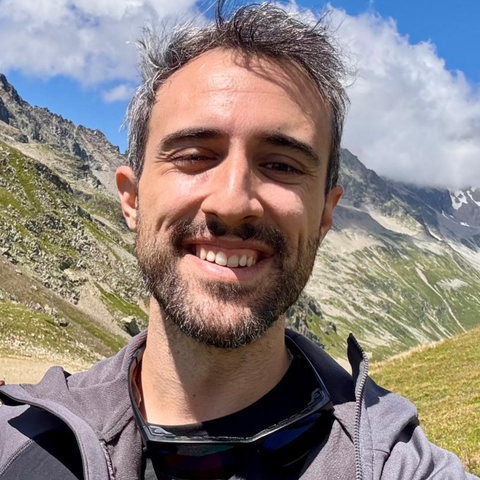
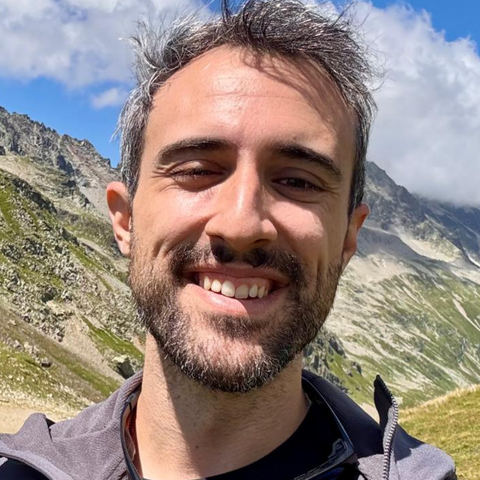
Update profile photo and add DOI links to publications from CVN

diff --git a/publications.html b/publications.html
@@ -53,6 +53,7 @@
     <li class="pub">
       <span class="pub-title">Personalized Pricing Decisions through Adversarial Risk Analysis</span>
       <span class="pub-meta">D. G. Rasines, R. Naveiro, D. Ríos Insua, S. Rodríguez Santana — International Transactions in Operational Research</span>
+      <span class="pub-links"><a href="https://doi.org/10.1111/itor.13545" target="_blank" rel="noopener">DOI</a></span>
     </li>
   </ol>
 
@@ -61,7 +62,7 @@
     <li class="pub">
       <span class="pub-title">Variational Linearized Laplace Approximation for Bayesian Deep Learning</span>
       <span class="pub-meta">L. A. Ortega Andrés, S. Rodríguez Santana, D. Hernández-Lobato — ICML</span>
-      <span class="pub-links"><a href="https://arxiv.org/abs/2302.12565" target="_blank" rel="noopener">arXiv</a></span>
+      <span class="pub-links"><a href="https://arxiv.org/abs/2302.12565" target="_blank" rel="noopener">arXiv</a><a href="https://doi.org/10.48550/arXiv.2302.12565" target="_blank" rel="noopener">DOI</a></span>
     </li>
     <li class="pub">
       <span class="pub-title">Fixed-Mean Gaussian Processes for Post-Hoc Bayesian Deep Learning</span>
@@ -75,6 +76,7 @@
     <li class="pub">
       <span class="pub-title">Deep Variational Implicit Processes</span>
       <span class="pub-meta">L. A. Ortega, S. Rodríguez Santana, D. Hernández-Lobato — International Conference on Learning Representations (ICLR)</span>
+      <span class="pub-links"><a href="https://doi.org/10.48550/arXiv.2206.06720" target="_blank" rel="noopener">DOI</a></span>
     </li>
   </ol>
 
@@ -83,10 +85,12 @@
     <li class="pub">
       <span class="pub-title">Function-Space Inference with Sparse Implicit Processes</span>
       <span class="pub-meta">S. Rodríguez Santana, B. Zaldivar, D. Hernández-Lobato — ICML</span>
+      <span class="pub-links"><a href="https://doi.org/10.48550/arXiv.2110.07618" target="_blank" rel="noopener">DOI</a></span>
     </li>
     <li class="pub">
       <span class="pub-title">Correcting Model Bias with Sparse Implicit Processes</span>
       <span class="pub-meta">S. Rodríguez Santana, L. A. Ortega, D. Hernández-Lobato, B. Zaldívar — ICML Workshop "Beyond Bayes"</span>
+      <span class="pub-links"><a href="https://doi.org/10.48550/arXiv.2207.10673" target="_blank" rel="noopener">DOI</a></span>
     </li>
   </ol>
 
@@ -95,6 +99,7 @@
     <li class="pub">
       <span class="pub-title">Adversarial α-Divergence Minimization for Bayesian Approximate Inference</span>
       <span class="pub-meta">S. Rodríguez Santana, D. Hernández-Lobato — Neurocomputing</span>
+      <span class="pub-links"><a href="https://doi.org/10.1016/j.neucom.2020.09.076" target="_blank" rel="noopener">DOI</a></span>
     </li>
   </ol>
 
@@ -103,6 +108,7 @@
     <li class="pub">
       <span class="pub-title">Large-Scale Automated Forecasting for Network Safety and Security Monitoring</span>
       <span class="pub-meta">R. Naveiro, S. Rodríguez Santana, D. Ríos Insua — Applied Stochastic Models in Business and Industry</span>
+      <span class="pub-links"><a href="https://doi.org/10.1002/asmb.2436" target="_blank" rel="noopener">DOI</a></span>
     </li>
   </ol>
 
